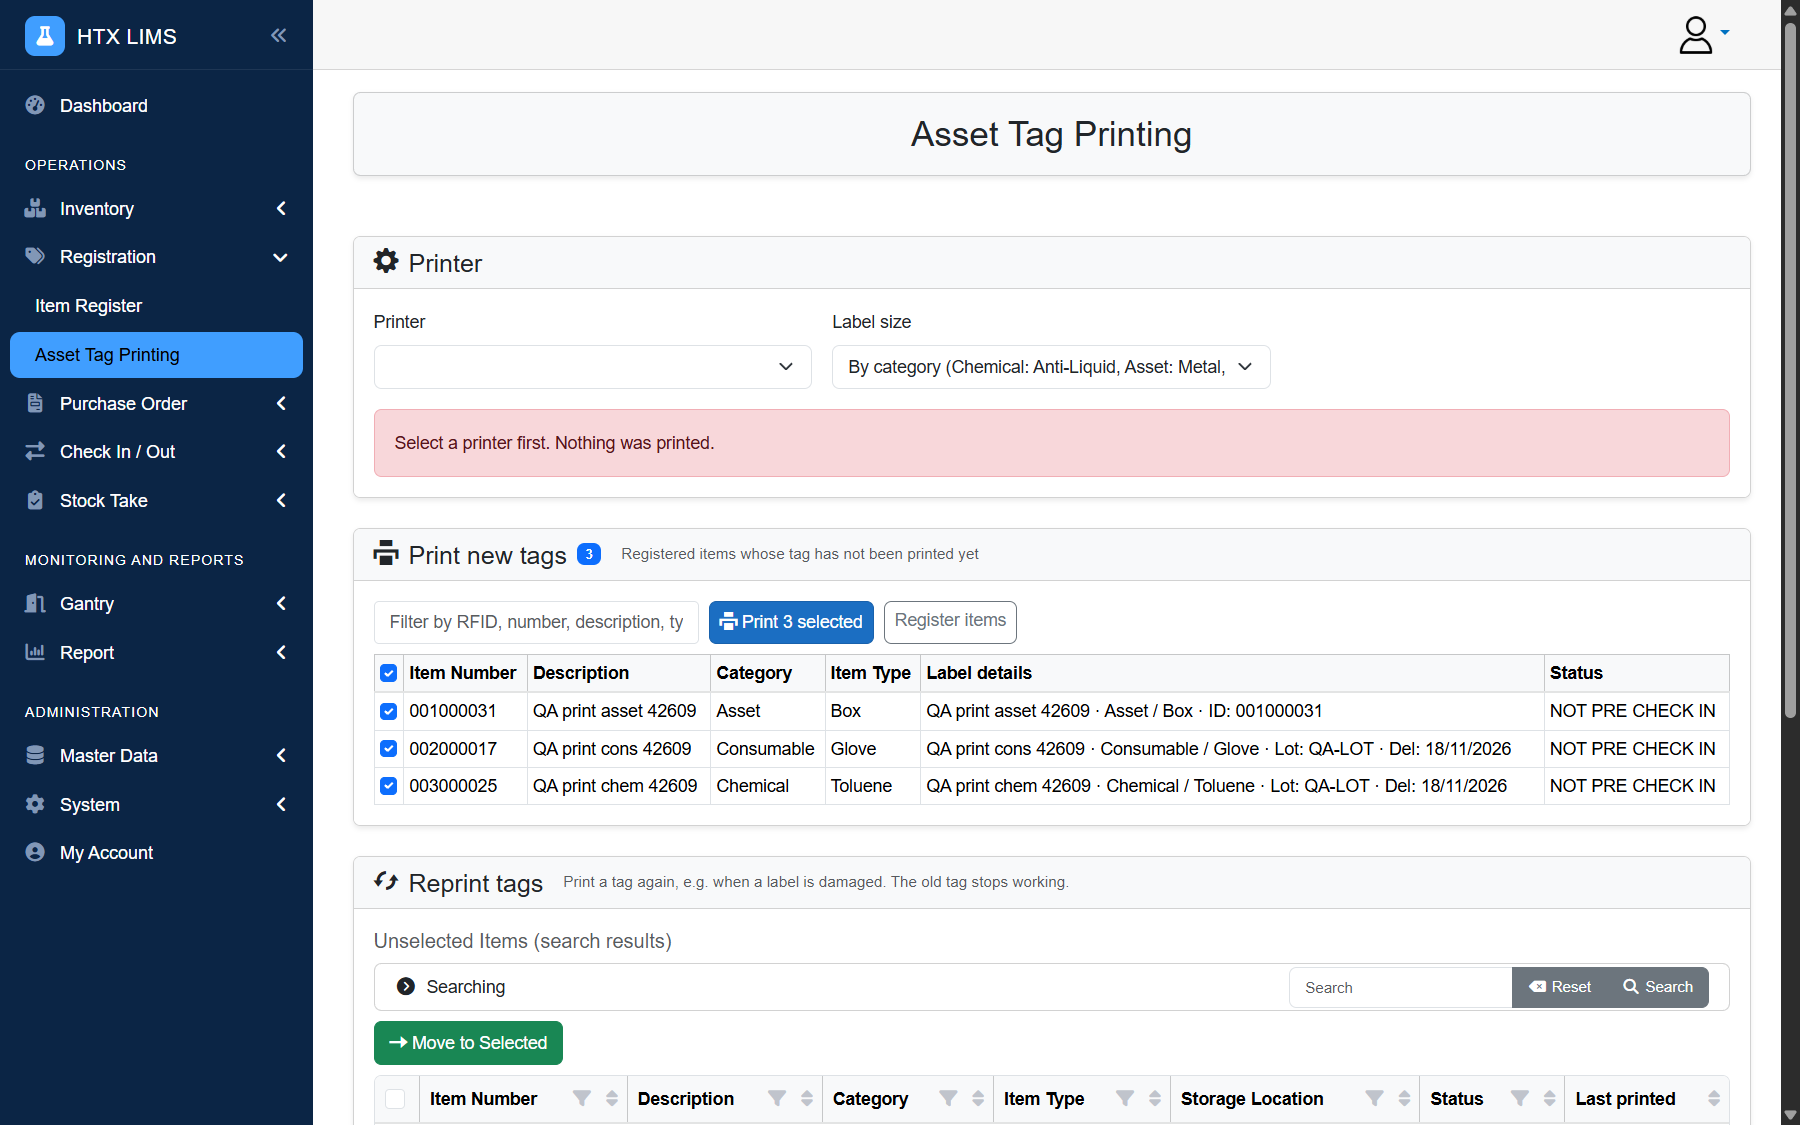
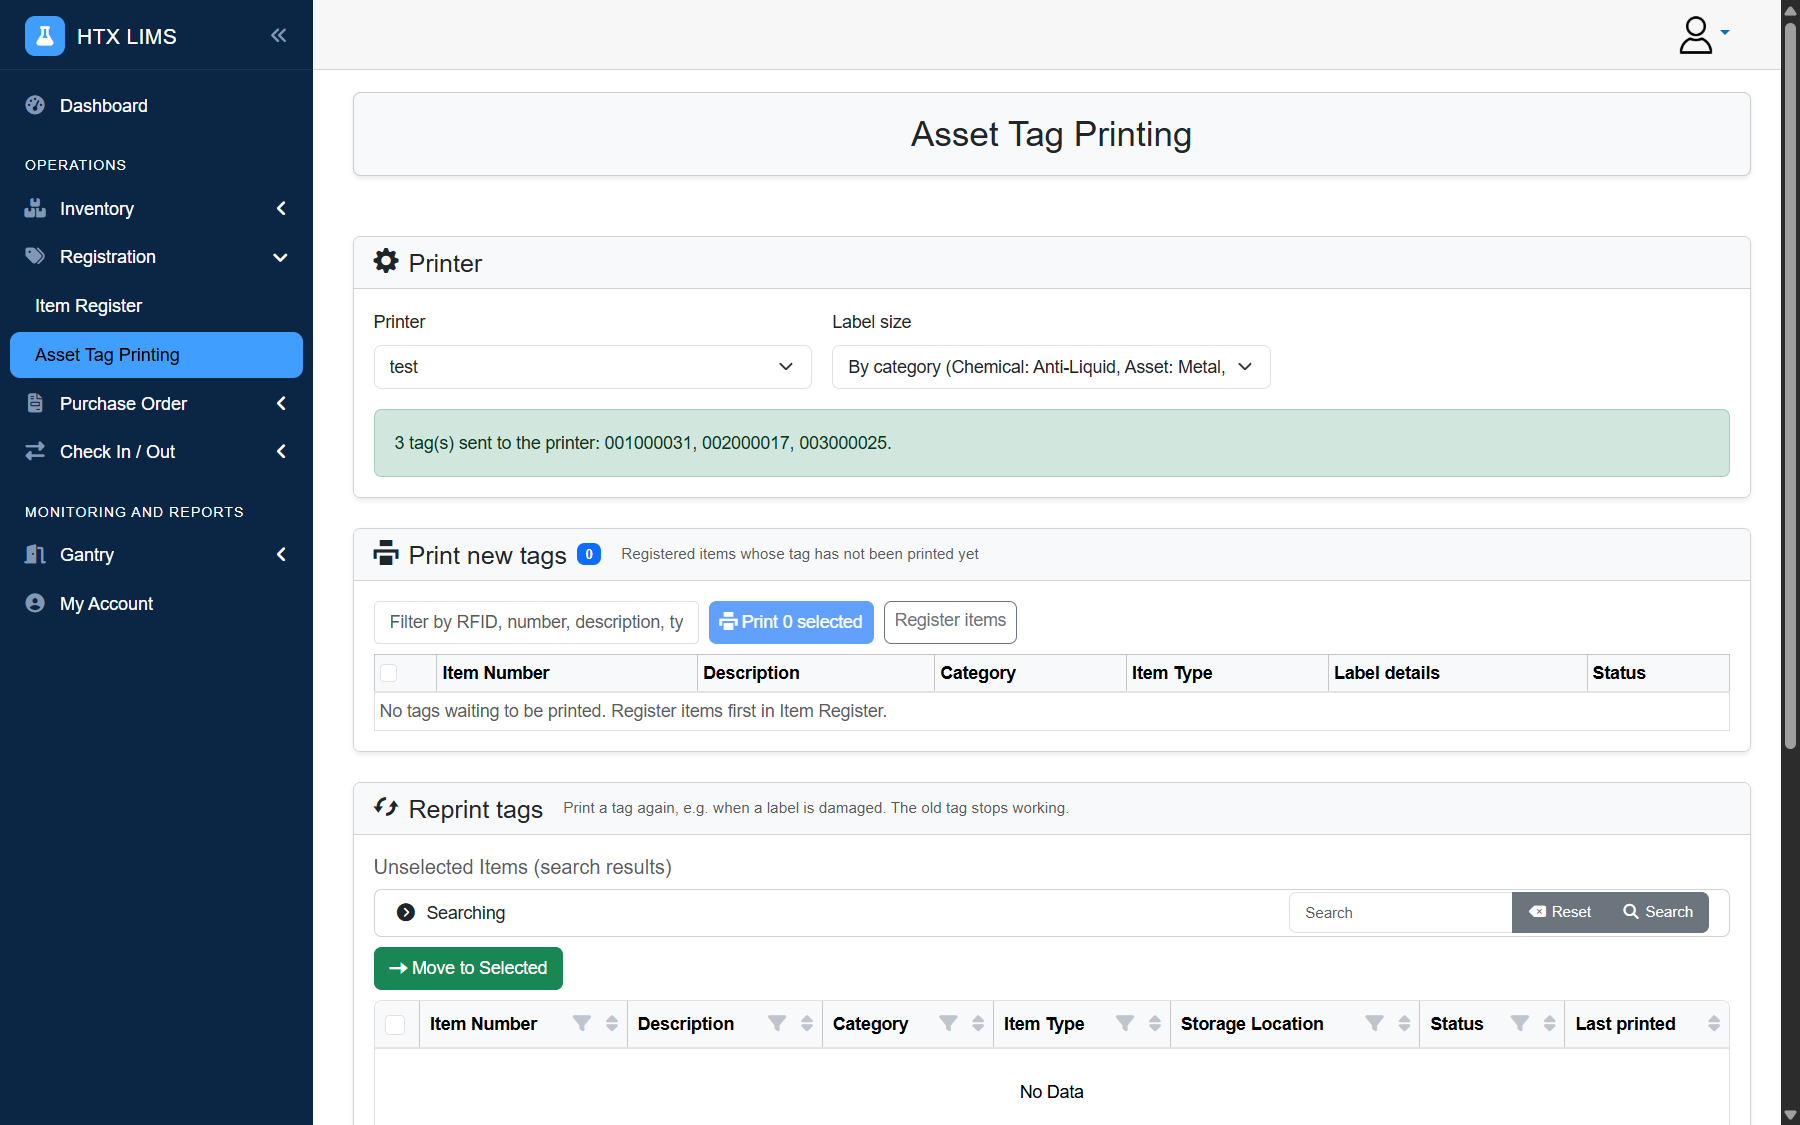
htx-lims-web: tag printing on printer test (HLW-013, 039 pass; 038 blocked: tag type not visible); Q-009 closed

diff --git a/projects/htx-lims-web/explorations/2026-11-18-web-testing.md b/projects/htx-lims-web/explorations/2026-11-18-web-testing.md
@@ -34,7 +34,7 @@ Run `runs/2026-11-18_1115_staging_manual`: 4 pass, 2 fail, 4 blocked.
 | HLW-020 Acknowledge alert | fail: Acknowledge does nothing (BUG-005) |
 | HLW-030 Add user | fail: Save does nothing until Role is picked again (BUG-006); QAUSER107393 created after that, logs in as User |
 | HLW-009 Approve PO | blocked: new POs are APPROVED at once; Approve says 'PO is already approved' (Q-001) |
-| HLW-013, 038, 039 Printing | blocked: no printer on UAT (Q-009) |
+| HLW-013, 038, 039 Printing | re-run with printer "test" (runs/2026-11-18_1120_staging_manual): HLW-013 and 039 pass (new chip code on reprint, old one 404); HLW-038 blocked: tag type not visible |
 
 Also seen: deleted item numbers are reused (Q-007); a new item type defaults to Min 1 and raises a Low stock alert (Q-008, another tester's 'Type Asset New 1').
 
@@ -54,5 +54,5 @@ Also seen: deleted item numbers are reused (Q-007); a new item type defaults to 
 
 - 001000029 (Box Description 1, Chemistry) and 001000027 (test_item, Airlock 2): loaned and checked in again; now IN but still on the gantry whitelist with purpose LOAN (BUG-001). Loans 23 and 24 show Returned. Left as they are for the developers; remove them from Gantry Whitelist once BUG-001 is looked at.
 - Deleted again (round 1): items 003000025, 002000017..019; PO QA-PO-3781642; item type "QA type 126550".
-- Round 2, kept: 001000025 OUT For use, 001000023 OUT No return (whitelisted); PO QAPO521908 (APPROVED); stock take ST00000014 (Aborted); storage location 00006 "QA room 061718"; user QAUSER107393 (Role User, password in .env HLW_QAUSER_*); registered unprinted items 001000031, 002000017, 003000025 ("QA print ... 42609") waiting for a printer; Box6 alert still open (BUG-005).
+- Round 2, kept: 001000025 OUT For use, 001000023 OUT No return (whitelisted); PO QAPO521908 (APPROVED); stock take ST00000014 (Aborted); storage location 00006 "QA room 061718"; user QAUSER107393 (Role User, password in .env HLW_QAUSER_*); printed items 001000031 (reprinted), 002000017, 003000025 ("QA print ... 42609"), NOT PRE CHECK IN; Box6 alert still open (BUG-005).
 - Audit Trail entries of the above, one failed USER2 login (11:34:52).

diff --git a/projects/htx-lims-web/runs/2026-11-18_1120_staging_manual/report.md b/projects/htx-lims-web/runs/2026-11-18_1120_staging_manual/report.md
@@ -1,0 +1,31 @@
+# Run report: htx-lims-web / tag-printing-2026-11-18 / staging
+
+| Field | Value |
+|---|---|
+| Result | **INCOMPLETE (1 blocked)** |
+| Run | 2026-11-18_1120_staging_manual |
+| Runner | manual |
+| Base URL | https://htx.eastus.cloudapp.azure.com:5001/ |
+| Started | 2026-11-18 11:20 |
+| Duration | 0.8s |
+
+## Summary
+
+| Total | Pass | Fail | Flaky | Blocked | Skipped |
+|---:|---:|---:|---:|---:|---:|
+| 3 | 2 | 0 | 0 | 1 | 0 |
+
+## Results
+
+| ID | Title | Status | Checks | Time | Notes | Evidence |
+|---|---|---|---|---|---|---|
+| HLW-013 | Print RFID tags for a newly registered item | pass | - | 0.0s | - | [1](screenshots/HLW-013-m01-hlw-013.png) |
+| HLW-038 | Label size By category picks the tag type of the item's category | blocked | - | 0.0s | Printed By category on printer "test", but the tag type used is not shown in the web (Label details, Printed list) or the Audit Trail, so Anti-Liquid / Metal / Paper cannot be checked without the printer output. Chip codes: asset 01002..., chemical and consumable 01001... (meaning not documented). | - |
+| HLW-039 | Reprinting a tag issues a new chip code and retires the old tag | pass | - | 0.0s | - | [1](screenshots/HLW-039-m01-hlw-039.png) |
+
+## Failures and warnings
+
+### HLW-038: Label size By category picks the tag type of the item's category (blocked)
+
+- Source: `projects/htx-lims-web/cases/tag-printing/HLW-038-label-size-by-category-picks-the-tag.md`
+- Note: Printed By category on printer "test", but the tag type used is not shown in the web (Label details, Printed list) or the Audit Trail, so Anti-Liquid / Metal / Paper cannot be checked without the printer output. Chip codes: asset 01002..., chemical and consumable 01001... (meaning not documented).

diff --git a/projects/htx-lims-web/README.md b/projects/htx-lims-web/README.md
@@ -24,5 +24,5 @@ From `.env` only (`HLW_<ACCOUNT>_USER` / `HLW_<ACCOUNT>_PASS`):
 ## Testing permissions
 
 - **Gantry flow (user, 2026-11-18):** the HTX API Swagger (/swagger, Basic auth HLW_SWAGGER_USER / HLW_SWAGGER_PASS) is for testing the gantry flow only: gantry reads through `POST /api/Gantry/authorizerfid` / `unauthorizerfid` are allowed. Move test items back to their room afterwards; do not acknowledge the alerts they raise without asking. Details: [context/gantry.md](context/gantry.md).
-- **Web writes on UAT (user, 2026-11-18):** testing may create and change data, including irreversible steps (approve PO, For use / No return check-outs, stock takes, acknowledging alerts, printing tags on the Zebra printer, storage locations, users); undoing is not required (llowWrites: true). Still use QA-prefixed data and note what was left behind in the session file.
+- **Web writes on UAT (user, 2026-11-18):** testing may create and change data, including irreversible steps (approve PO, For use / No return check-outs, stock takes, acknowledging alerts, printing tags (use printer "test"), storage locations, users); undoing is not required (llowWrites: true). Still use QA-prefixed data and note what was left behind in the session file.
 - Before this permission (kept for reference): ask the user what may be written on UAT (inventory records, registrations, purchase orders, check in/out, stock takes, alert acknowledgements, master data, users) and about rate or session limits, then write the answers here. Until then the env is read-only (`allowWrites: false`).

diff --git a/projects/htx-lims-web/context.md b/projects/htx-lims-web/context.md
@@ -43,7 +43,7 @@ Master Data (Item Category: 4 built-in categories Asset, Chemical, Consumable, F
 - Item Type: Min. stock defaults to 1, and a type with 0 items would then raise a Low stock alert: leave Min empty for QA types.
 - Create Stock Take: pick the Storage Location, Search, tick items, Move to Selected, then tick them again under Selected Items (BUG-007). An item already in a stock take with an overlapping period is refused ("Can't submit item that already exists on the same period"), so QA stock takes use a future period. Show > Commence / Complete / Abort; completing unscanned items marks them NOT FOUND (stock adjustment), so abort QA stock takes.
 - Add User: pick Role in its dropdown even when it shows User, or Save does nothing (BUG-006). Password: 6+ characters with upper, lower, digit and symbol.
-- Dashboard Acknowledge currently does nothing (BUG-005). Asset Tag Printing has no printer on UAT (Q-009).
+- Dashboard Acknowledge currently does nothing (BUG-005). Asset Tag Printing on UAT: use printer "test" (user). Print: "<n> tag(s) sent to the printer: <numbers>."; each print issues a chip code (Audit "Tag code issued"); a reprint issues a new one, the old code no longer resolves (GET /api/Item/byencodedrfid -> 404; GET /api/Item/{id}/encodedtaghistory). The tag type used is not shown anywhere in the web.
 - Audit Trail: logins (API logins show as "Login Handheld"), failed logins, item registered / number assigned / deleted, check-outs (no workstation IP), stock adjustments, handheld stock take scans.
 
 ## UI behavior

diff --git a/projects/htx-lims-web/questions/Q-009-which-printer-should-asset-tag-printing.md b/projects/htx-lims-web/questions/Q-009-which-printer-should-asset-tag-printing.md
@@ -1,15 +1,15 @@
 ---
 id: Q-009
 title: "Which printer should Asset Tag Printing use on UAT?"
-status: open
+status: closed
 askedTo: "user"
 env: staging
 found: 2026-11-18T04:14:57.996Z
 foundBy: "explorations/2026-11-18-web-testing.md"
 tests: [HLW-013, HLW-038, HLW-039]
 bugs: []
-updated: 2026-11-18T04:14:57.996Z
-answered: ""
+updated: 2026-11-18T04:20:20.152Z
+answered: 2026-11-18T04:20:20.003Z
 ---
 ## Question
 Asset Tag Printing has no printer to choose on UAT, so 'Print' says 'Select a printer first. Nothing was printed.' Can a Zebra printer (or a test printer) be set up so the printing cases can run?
@@ -18,7 +18,9 @@ Asset Tag Printing has no printer to choose on UAT, so 'Print' says 'Select a pr
 2026-11-18: Printer list empty; QA items 001000031, 002000017, 003000025 are registered and waiting to be printed.
 
 ## Answer
-Not answered yet.
+Use the printer named test (user, 2026-11-18). HLW-013 and HLW-039 pass with it; HLW-038 stays blocked because the tag type is not visible in the web.
 
 ## History
 - 2026-11-18: asked from explorations/2026-11-18-web-testing.md.
+- 2026-11-18: answer recorded; status open -> answered.
+- 2026-11-18: status answered -> closed.
